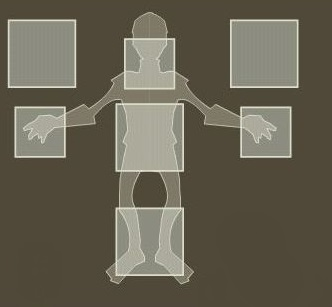
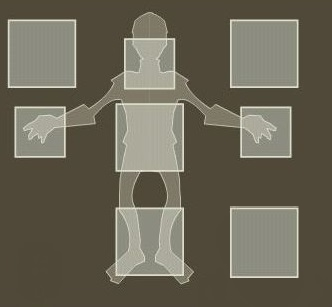
modification de l'image de fond

Changed region(s): [[0.6928, 0.645, 0.9036, 0.9088]]

diff --git a/MainWindow.xaml b/MainWindow.xaml
@@ -224,7 +224,46 @@
                     <RowDefinition Height="65*"/>
                     <RowDefinition Height="48*"/>
                 </Grid.RowDefinitions>
-                <ListBox Name="lbxInventaire" Grid.RowSpan="2" Grid.Column="1" />
+                <Grid>
+                    <Grid.RowDefinitions>
+                        <RowDefinition Height="21*"/>
+                        <RowDefinition Height="21*"/>
+                        <RowDefinition Height="51*"/>
+                        <RowDefinition Height="17*"/>
+                        <RowDefinition Height="4*"/>
+                        <RowDefinition Height="52*"/>
+                        <RowDefinition Height="15*"/>
+                        <RowDefinition Height="39*"/>
+                        <RowDefinition Height="70*"/>
+                        <RowDefinition Height="35*"/>
+                    </Grid.RowDefinitions>
+                    <Grid.ColumnDefinitions>
+                        <ColumnDefinition Width="9*"/>
+                        <ColumnDefinition Width="8*"/>
+                        <ColumnDefinition Width="52*"/>
+                        <ColumnDefinition Width="11*"/>
+                        <ColumnDefinition Width="41*"/>
+                        <ColumnDefinition Width="10*"/>
+                        <ColumnDefinition Width="52*"/>
+                        <ColumnDefinition Width="9*"/>
+                        <ColumnDefinition Width="50*"/>
+                        <ColumnDefinition Width="11*"/>
+                        <ColumnDefinition Width="53*"/>
+                        <ColumnDefinition Width="7*"/>
+                        <ColumnDefinition Width="36*"/>
+                    </Grid.ColumnDefinitions>
+
+                    <Image x:Name="Imgfond"  Source="resources/fondEquipement.jpg" Grid.ColumnSpan="13" Margin="0,0,0.231,0" Grid.RowSpan="10"/>
+                    <Image Source="http://staticns.ankama.com/dofus/www/game/items/200/17039.png" Grid.Column="1" Grid.Row="1" Grid.ColumnSpan="3" Grid.RowSpan="2"  />
+                    <Image Source="http://staticns.ankama.com/dofus/www/game/items/200/16491.png" Grid.Column="6" Grid.Row="2"/>
+                    <Image Source="http://staticns.ankama.com/dofus/www/game/items/200/17039.png" Grid.Column="1" Grid.Row="1" Grid.ColumnSpan="3" Grid.RowSpan="2"  />
+                    <Image Source="http://staticns.ankama.com/dofus/www/game/items/200/17039.png" Grid.Column="1" Grid.Row="1" Grid.ColumnSpan="3" Grid.RowSpan="2"  />
+                    <Image Source="http://staticns.ankama.com/dofus/www/game/items/200/17039.png" Grid.Column="1" Grid.Row="1" Grid.ColumnSpan="3" Grid.RowSpan="2"  />
+                    <Image Source="http://staticns.ankama.com/dofus/www/game/items/200/17039.png" Grid.Column="1" Grid.Row="1" Grid.ColumnSpan="3" Grid.RowSpan="2"  />
+                    <Image Source="http://staticns.ankama.com/dofus/www/game/items/200/17039.png" Grid.Column="1" Grid.Row="1" Grid.ColumnSpan="3" Grid.RowSpan="2"  />
+                </Grid>
+
+                <ListBox Name="lbxInventaire" Grid.RowSpan="2" Grid.Column="1" ScrollViewer.HorizontalScrollBarVisibility="Disabled"/>
                 <ItemsControl Name="itmCtrlDesc" Grid.Row="1" />
             </Grid >
         </TabItem>
@@ -306,7 +345,7 @@
                 <Label x:Name="lblTitreExemple" Content="Recommendation" FontSize="25" HorizontalAlignment="Right" VerticalAlignment="Top" Margin="0,190,49.6,0" Height="43" Width="205"/>
                 <Label x:Name="lblInfoCourriel" Content="Courriel : AA@AAA.com" FontSize="15" HorizontalAlignment="Right" Width="220" VerticalAlignment="Top" Margin="0,235,49.6,0" Height="30"/>
                 <Label x:Name="lblMotDePasse" FontSize="15"  Width="220" HorizontalAlignment="Right" VerticalAlignment="Top" Margin="0,265,49.6,0" Height="110">
-                    
+
                     <TextBlock>
                 Mot de passe:
                 <LineBreak/>
@@ -328,7 +367,7 @@
                 <Button x:Name="btnSave" Content="Sauvegarder" HorizontalAlignment="Center" Margin="299,22,174.6,46" FontSize="15" VerticalAlignment="Center" Width="100" Click="btnSave_Click" Grid.Row="1" Height="24"/>
                 <Button x:Name="btnSuggestion" Content="Suggestions/Problèmes" FontSize="15" HorizontalAlignment="Center" Margin="202,0,201.6,10" VerticalAlignment="Bottom" Width="170" Click="btnSuggestion_Click" Grid.Row="1" Height="24" />
                 <Button x:Name="btnDeconnexion" Content="Déconnexion" HorizontalAlignment="Right" Margin="0,18,24.6,18" VerticalAlignment="Center" Width="100" Height="56" FontSize="16" Click="btnDeconnexion_Click"  Grid.Row="1" />
-               
+
 
             </Grid>
 

diff --git a/UserControl/DescItem.xaml b/UserControl/DescItem.xaml
@@ -8,17 +8,17 @@
              d:DesignHeight="240" d:DesignWidth="349">
     <Grid Background="White">
         <Grid.ColumnDefinitions>
-            <ColumnDefinition Width="121*"/>
-            <ColumnDefinition Width="228*"/>
+            <ColumnDefinition Width="115*"/>
+            <ColumnDefinition Width="234*"/>
         </Grid.ColumnDefinitions>
         <Grid.RowDefinitions>
-            <RowDefinition Height="22*"/>
-            <RowDefinition Height="113*"/>
-            <RowDefinition Height="53*"/>
+            <RowDefinition Height="25*"/>
+            <RowDefinition Height="147*"/>
+            <RowDefinition Height="68*"/>
         </Grid.RowDefinitions>
-        <TabControl Name="tabControlStatsDesc" Grid.Row="1" Grid.Column="1" FontSize="8"  >
+        <TabControl Name="tabControlStatsDesc" Grid.Column="1" FontSize="11" Margin="0,6,0,0" Grid.Row="1"  >
             <TabItem Header="Statistiques">
-                <ListBox  Name="lbxStatsDesc" Height="121"/>
+                <ListBox  Name="lbxStatsDesc" Height="121" ScrollViewer.HorizontalScrollBarVisibility="Disabled"/>
             </TabItem>
             <TabItem Header="Conditions">
                 <ListBox  Name="lbxCondDesc" Height="121"/>
@@ -27,11 +27,11 @@
                 <ListBox  Name="lbxCaraDesc" Height="121"/>
             </TabItem>
         </TabControl>
-        <Image Name="imgDesc" Source="http://staticns.ankama.com/dofus/www/game/items/200/7085.png" Grid.Row="1" Grid.Column="0" />
-        <ScrollViewer Name="scrDesc" Grid.Row="2" Grid.ColumnSpan="2" VerticalScrollBarVisibility="Auto" Width="349" >
-            <TextBlock Name="txtDesc2" FontSize="9" Text="Catégorie : Chapeau&#10;Les rares graves sujets qui arrivent aux oreilles du Roi Joueur lui passent par-dessus la tête, et arrivent alors jusqu'à ce chapeau. Ce dernier s'est donc chargé en gravité au fil du temps, ce qui explique comment les anneaux dorés qui l'entourent sont maintenus en place mais aussi pourquoi il ne bouge pas lorsque vous faites volte-face." TextWrapping="Wrap"/>
+        <Image Name="imgDesc" Source="http://staticns.ankama.com/dofus/www/game/items/200/7085.png" Grid.Column="0" Grid.Row="1" />
+        <ScrollViewer Name="scrDesc" Grid.Row="2" Grid.ColumnSpan="2" VerticalScrollBarVisibility="Auto" Margin="2,2,2,1" >
+            <TextBlock Name="txtDesc2" FontSize="11" Text="Catégorie : Chapeau&#10;Les rares graves sujets qui arrivent aux oreilles du Roi Joueur lui passent par-dessus la tête, et arrivent alors jusqu'à ce chapeau. Ce dernier s'est donc chargé en gravité au fil du temps, ce qui explique comment les anneaux dorés qui l'entourent sont maintenus en place mais aussi pourquoi il ne bouge pas lorsque vous faites volte-face." TextWrapping="Wrap"/>
         </ScrollViewer>
-        <TextBlock Name="lblNomItem"  FontSize="9" Text="Ceinture rasboulaire du rasboul" TextWrapping="WrapWithOverflow" />
-        <Label Name="lblivItem" Grid.Column="1" Content="Niv.123" HorizontalAlignment="Right" FontSize="9"/>
+        <Label Name="lblNomItem" FontSize="11" Content="Ceinture rasboulaire du rasboul" Grid.ColumnSpan="2" Grid.Row="0" />
+        <Label Name="lblivItem" Grid.Column="1" Content="Niv.123" HorizontalAlignment="Right" FontSize="11"/>
     </Grid>
 </UserControl>

diff --git a/Classes/Statistique.cs b/Classes/Statistique.cs
@@ -30,7 +30,7 @@ namespace test
             {element.DMG_feu,"Dommage feu"},
             {element.DMG_neutre,"Dommage neutre"},
             {element.DMG_piege,"Dommage aux pièges"},
-            {element.DMG_poussee,"Dommage de poussé"},
+            {element.DMG_poussee,"Dommage poussée"},
             {element.DMG_terre,"Dommage terre"},
             {element.esquive_PA,"Esquive de PA"},
             {element.esquive_PM,"Esquive de PM"},
@@ -48,17 +48,17 @@ namespace test
             {element.reduction_magique,"Réduction magique"},
             {element.reduction_physique,"réduction physique"},
             {element.renvoie_DMG,"Renvoie de dommage"},
-            {element.RES_air,"Résistance fixe air"},
-            {element.RES_eau,"Résistance fixe eau"},
-            {element.RES_feu,"Résistance fixe feu"},
-            {element.RES_terre,"Résistance fixe terre"},
-            {element.RES_neutre,"Résistance fixe neutre"},
+            {element.RES_air,"Résistance air"},
+            {element.RES_eau,"Résistance eau"},
+            {element.RES_feu,"Résistance feu"},
+            {element.RES_terre,"Résistance terre"},
+            {element.RES_neutre,"Résistance neutre"},
             {element.RES_Pourcent_air,"% résistance air"},
             {element.RES_Pourcent_eau,"% résistance eau"},
             {element.RES_Pourcent_feu,"% résistance feu"},
             {element.RES_Pourcent_neutre,"% résistance neutre"},
             {element.RES_Pourcent_terre,"% résistance terre"},
-            {element.RES_poussee,"Résistance au dommage de poussé"},
+            {element.RES_poussee,"Résistance poussée"},
             {element.retrait_PA,"Retraite de PA"},
             {element.retrait_PM,"Retraite de PM"},
             {element.sagesse,"Sagesse"},

diff --git a/UserControl/DescItem.xaml.cs b/UserControl/DescItem.xaml.cs
@@ -37,15 +37,9 @@ namespace test
             lbxCondDesc.ItemsSource = LstConds;
             lbxCaraDesc.ItemsSource = LstCaras;
 
-            imgDesc.Visibility = Visibility.Visible;
-            lblNomItem.Visibility = Visibility.Visible;
-            lblivItem.Visibility = Visibility.Visible;
-            tabControlStatsDesc.Visibility = Visibility.Visible;
-            scrDesc.Visibility = Visibility.Visible;
-
             txtDesc2.Text = "Catégorie : " + item.Type + Environment.NewLine + item.Desc;
             imgDesc.Source = new BitmapImage(new Uri("http://staticns.ankama.com/dofus/www/game/items/200/" + item.NoImg + ".png"));
-            lblNomItem.Text = item.Nom;
+            lblNomItem.Content = item.Nom;
             if (item.EstArme)
             {
                 tbCaraDesc.Visibility = Visibility.Visible;
